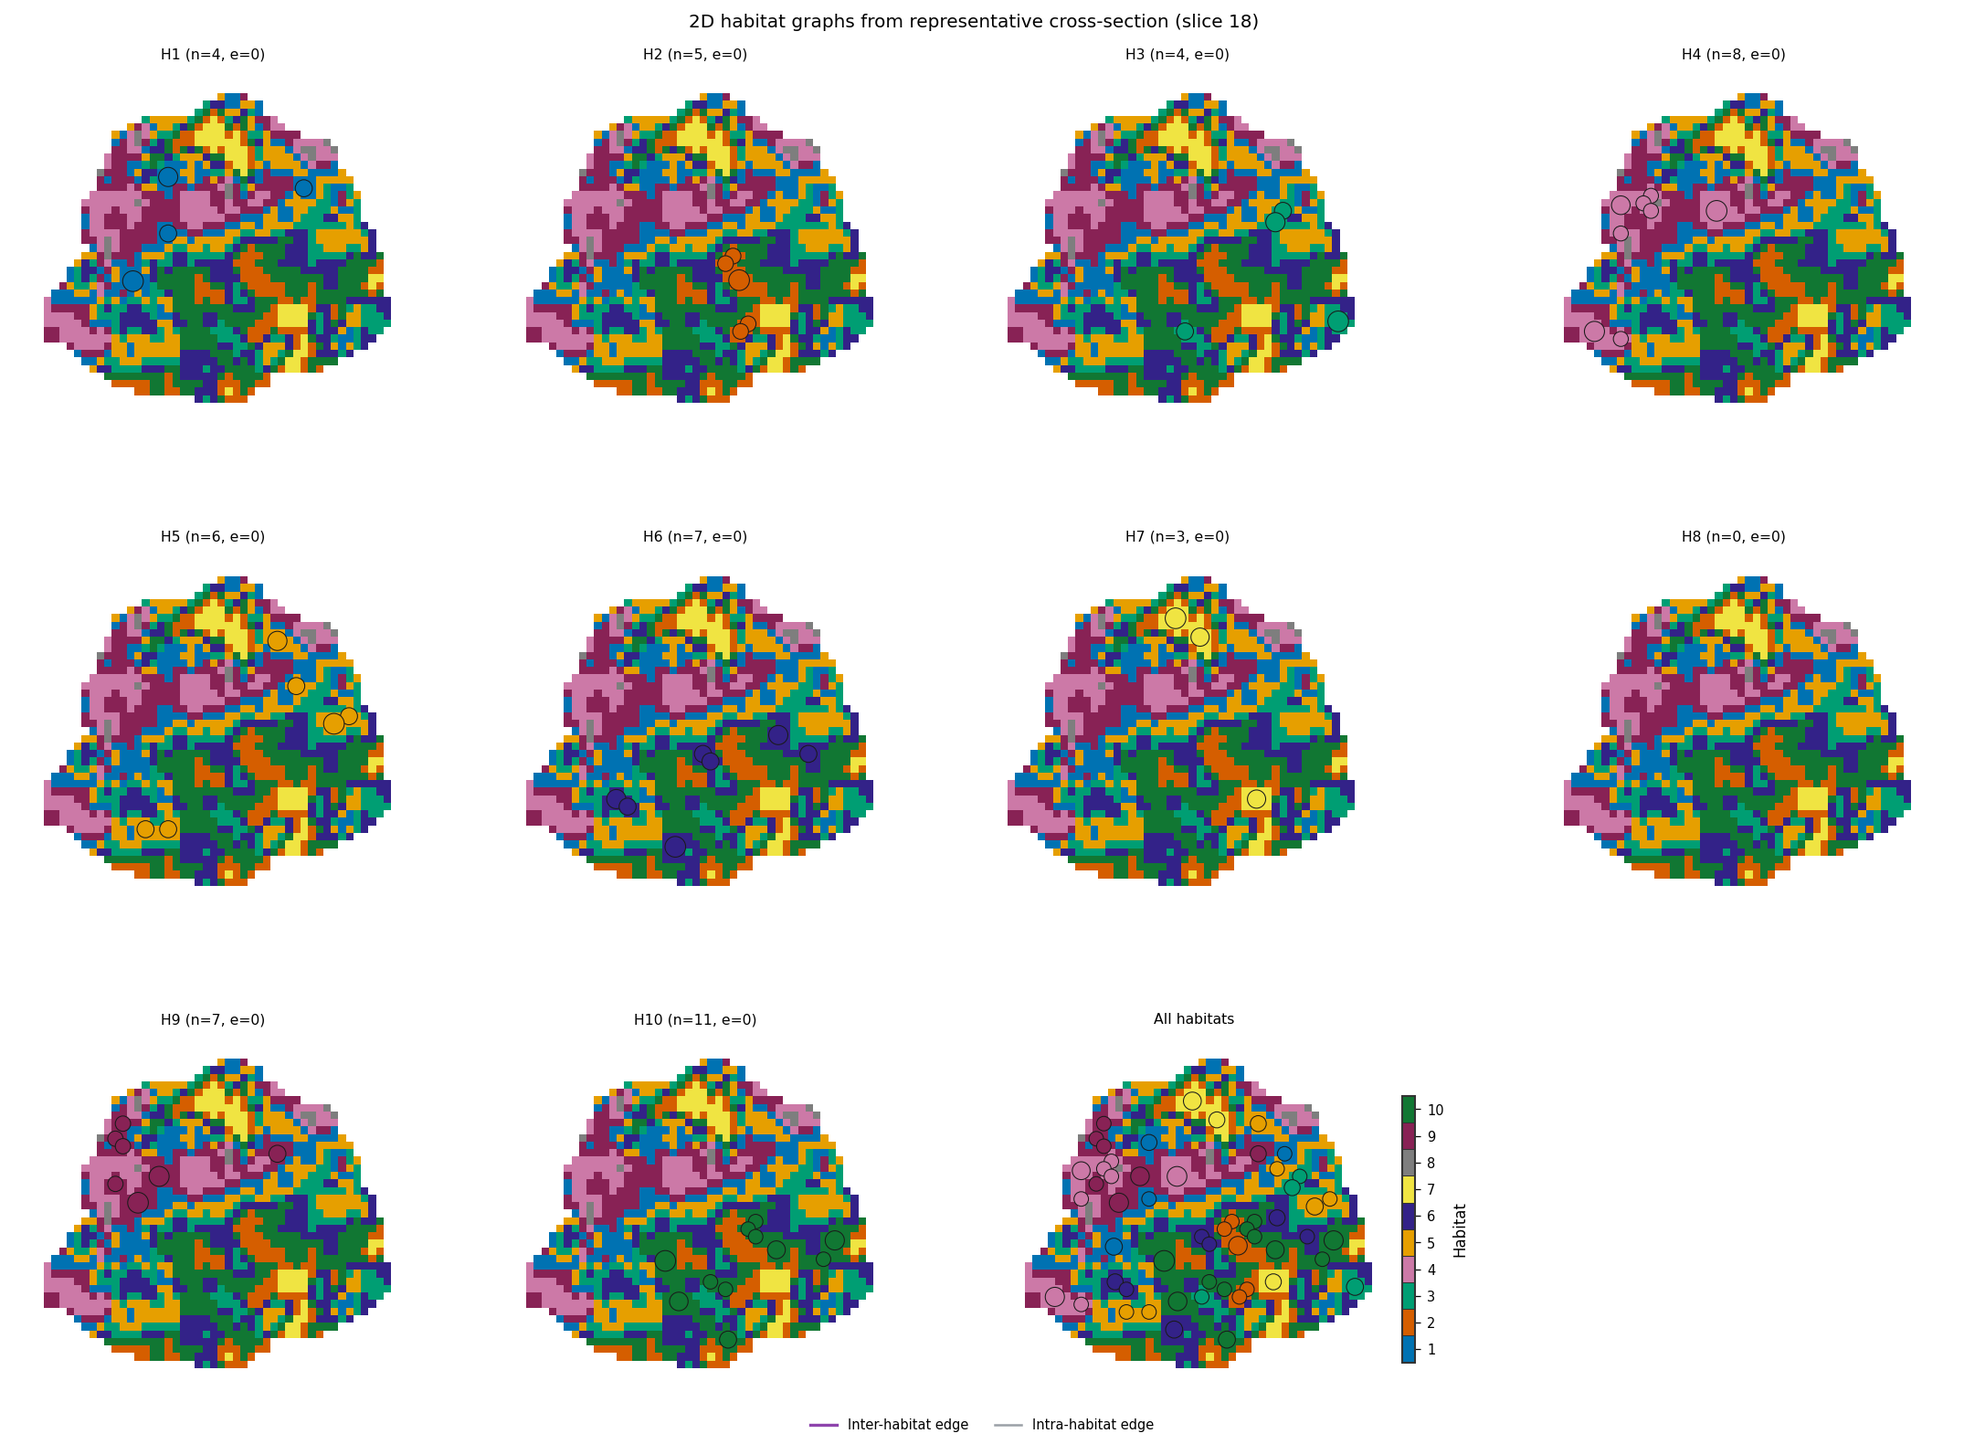
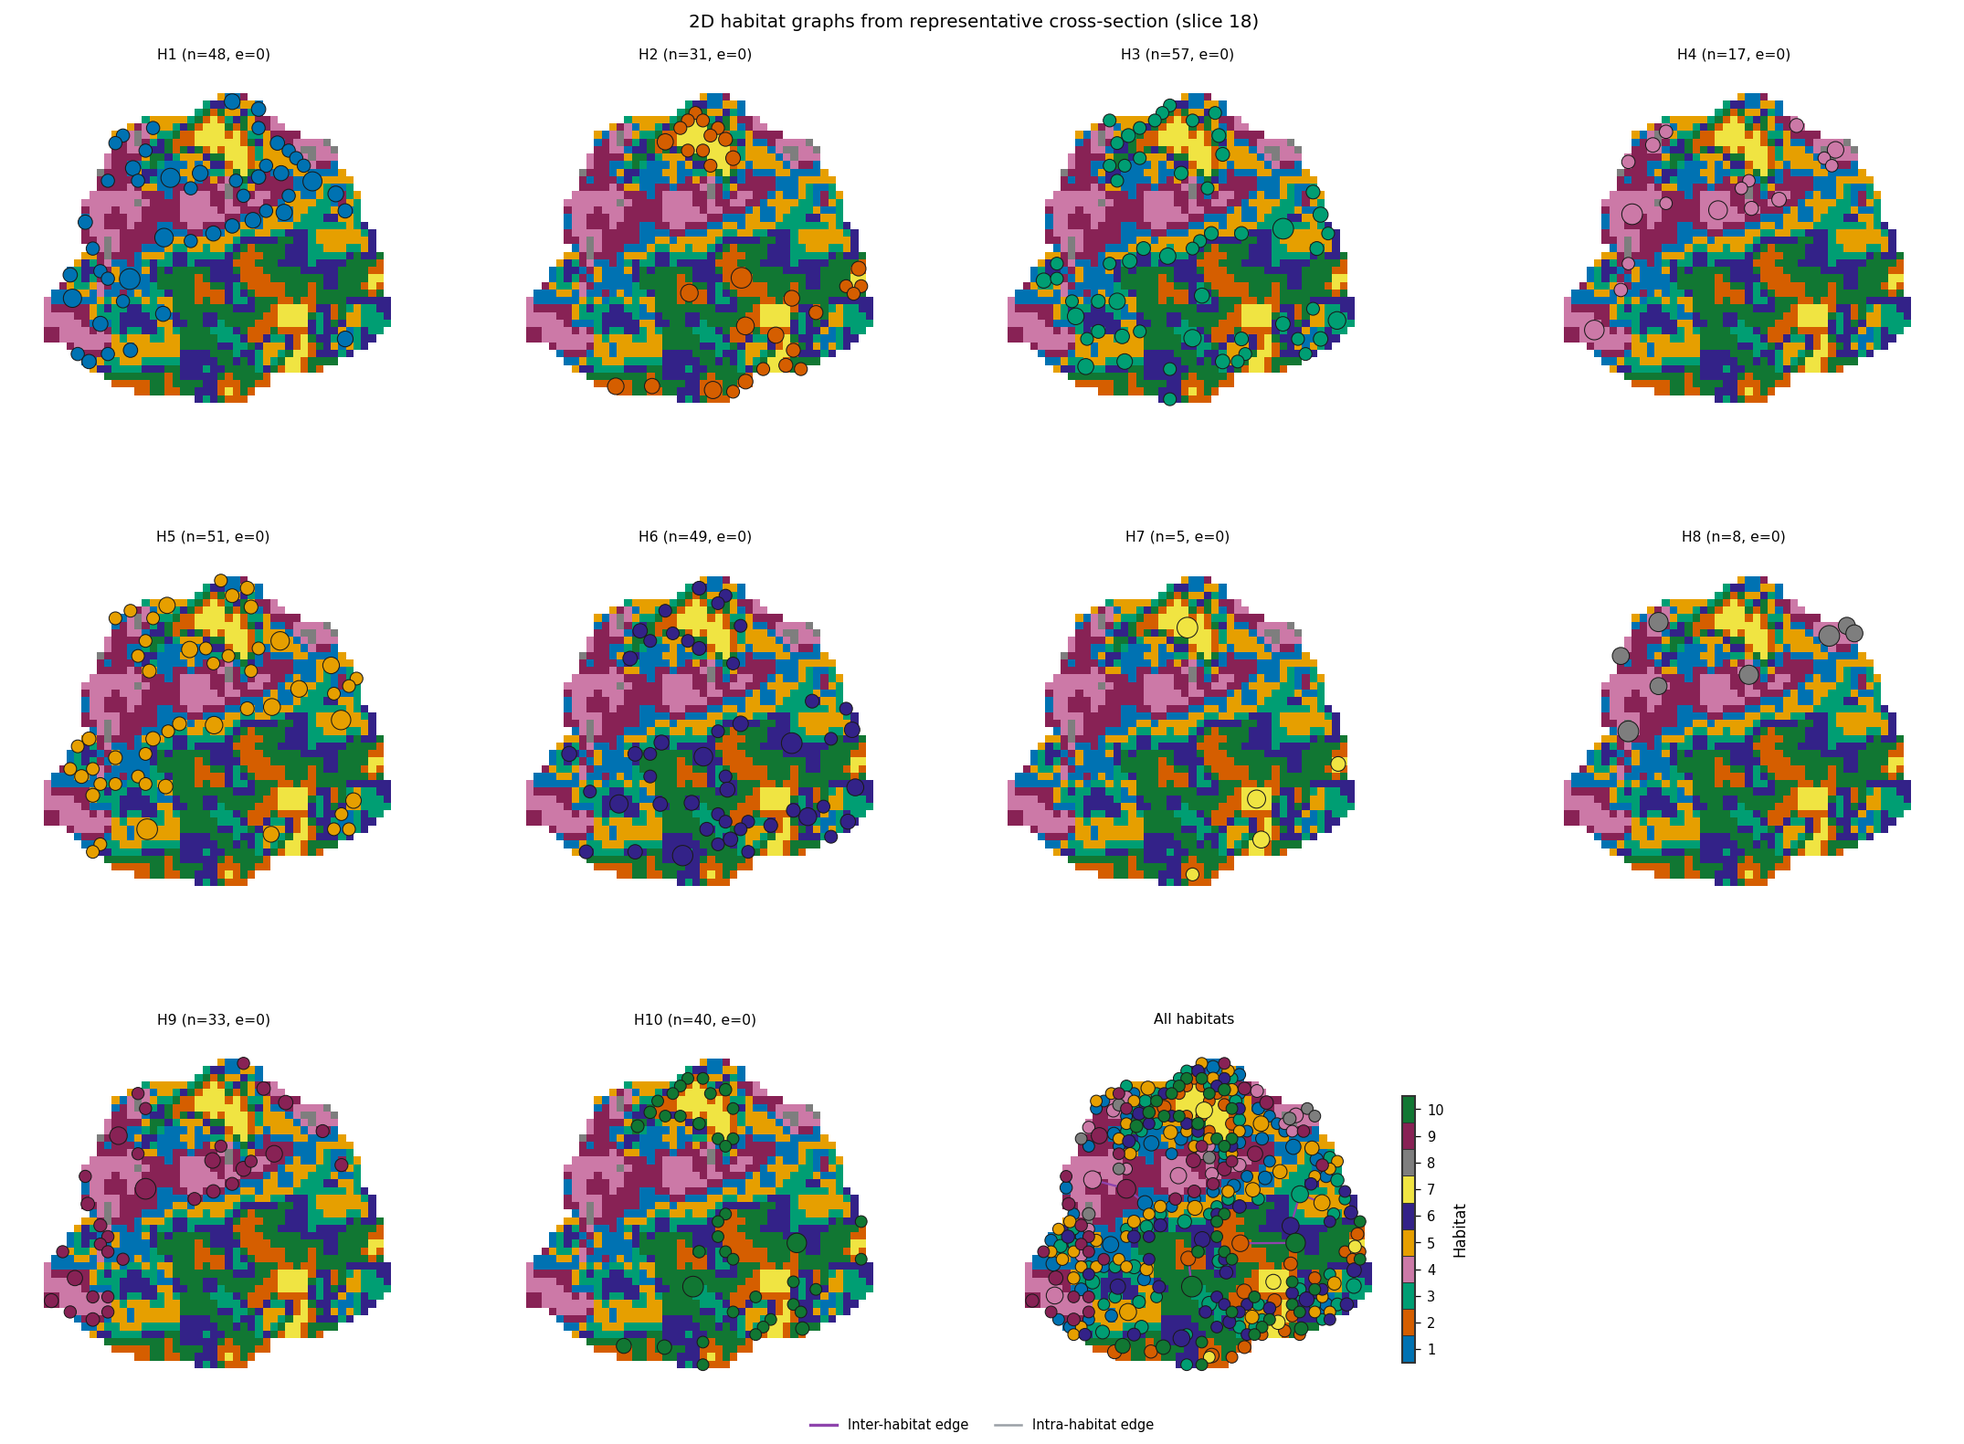
graph: default erosion off so adjacency edges stay on the habitat map

diff --git a/tests/kernels/test_habitat_graph.py b/tests/kernels/test_habitat_graph.py
@@ -118,11 +118,12 @@ def test_adjacency_min_voxels_default_requires_ten_contact_voxels() -> None:
     assert graph_ten.edges[0].contact_voxels == 10
 
     # Extractor default matches: 9 contacts → no pair edge; 10 → one edge.
+    # Default erosion is off, so contact is measured on the labels as drawn.
     options = HabitatGraphFeatureOptions(
-        erosion_radius=0,
         subdivide_region_voxels=0,
         include_extended_metrics=False,
     )
+    assert options.erosion_radius == 0
     assert options.edge_method == "adjacency"
     assert options.adjacency_min_voxels == 10
     feats_nine = extract_graph_features(labels_nine, options=options)
@@ -430,11 +431,11 @@ def test_subdivision_splits_large_region_into_multiple_nodes() -> None:
 
 
 @pytest.mark.unit
-def test_default_options_enable_erosion_and_subdivision() -> None:
-    """Default kernel options should erode and subdivide, per the config schema."""
+def test_default_options_disable_erosion_and_enable_subdivision() -> None:
+    """Default kernel options leave labels as drawn and still subdivide."""
     options = HabitatGraphFeatureOptions()
 
-    assert options.erosion_radius == 1
+    assert options.erosion_radius == 0
     assert options.subdivide_region_voxels == 1000
     assert options.block_size == 5
     assert options.distance_threshold == 5.0
@@ -625,6 +626,31 @@ def test_face_vs_full_connectivity_merges_diagonal_touch() -> None:
     assert len(face.nodes_by_habitat[1]) == 2
     assert len(full.nodes_by_habitat[1]) == 1
     assert full.nodes_by_habitat[1][0].voxel_count == 2
+
+
+@pytest.mark.unit
+def test_default_adjacency_keeps_contact_edges_optional_erosion_separates() -> None:
+    """Defaults keep a contact>=10 inter-edge; erosion=1 can still separate."""
+    # Two 5x10 blocks share a 10-voxel face. Thick enough to survive one
+    # erosion iteration, but erosion peels the shared boundary so they no
+    # longer touch.
+    label_array: np.ndarray = np.zeros((10, 10), dtype=np.int32)
+    label_array[0:5, :] = 1
+    label_array[5:10, :] = 2
+
+    default_options = HabitatGraphFeatureOptions()
+    assert default_options.erosion_radius == 0
+    assert default_options.edge_method == "adjacency"
+    assert default_options.adjacency_min_voxels == 10
+
+    default_feats = extract_graph_features(label_array, options=default_options)
+    eroded_feats = extract_graph_features(
+        label_array,
+        options=HabitatGraphFeatureOptions(erosion_radius=1),
+    )
+
+    assert default_feats["pair_h1_h2_n_edges"] >= 1.0
+    assert eroded_feats["pair_h1_h2_n_edges"] == 0.0
 
 
 @pytest.mark.unit

diff --git a/habit/domain/habitat_features/graph.py b/habit/domain/habitat_features/graph.py
@@ -65,9 +65,10 @@ class GraphHabitatFeaturesParams(BaseModel):
     min_region_voxels: int = Field(default=1, ge=1)
     #: Connected-component neighborhood rule.
     connectivity: Literal["face", "full"] = "face"
-    #: Binary erosion iterations applied before component labeling to remove
-    #: boundary noise. Set 0 to disable erosion.
-    erosion_radius: int = Field(default=1, ge=0)
+    #: Binary erosion iterations applied before component labeling. Default
+    #: ``0`` (off): adjacency and contact are measured on the habitat labels
+    #: as drawn. Pass a positive value to shrink each habitat before edges.
+    erosion_radius: int = Field(default=0, ge=0)
     #: Split connected components larger than this voxel count into grid blocks
     #: so large habitats do not collapse into a single node. Set 0 to disable.
     subdivide_region_voxels: int = Field(default=1000, ge=0)
@@ -94,10 +95,13 @@ class GraphHabitatFeatures:
     Graph-topology features of one subject's habitat map.
 
     Each connected habitat region (optionally eroded and subdivided into grid
-    blocks) becomes a graph node. By default (``edge_method='adjacency'``) an
-    edge exists when two regions are adjacent and the number of contact
-    (shared-boundary) voxels is at least ``adjacency_min_voxels`` (default
-    ``10``). The alternative ``centroid_distance`` method connects centroids
+    blocks) becomes a graph node. By default there is no morphological
+    erosion (``erosion_radius=0``): adjacency is measured on the habitat
+    labels as drawn. With ``edge_method='adjacency'`` an edge exists when
+    two regions are adjacent and the number of contact (shared-boundary)
+    voxels is at least ``adjacency_min_voxels`` (default ``10``). Pass a
+    positive ``erosion_radius`` to shrink habitats before edges. The
+    alternative ``centroid_distance`` method connects centroids
     within ``distance_threshold``. NetworkX-derived topology
     metrics are reported per habitat (``single_h*`` columns) and per habitat
     pair (``pair_h*_h*`` columns), covering degree/edge counts, density,
@@ -127,7 +131,7 @@ class GraphHabitatFeatures:
         ] = "none",
         min_region_voxels: int = 1,
         connectivity: Literal["face", "full"] = "face",
-        erosion_radius: int = 1,
+        erosion_radius: int = 0,
         subdivide_region_voxels: int = 1000,
         block_size: int = 5,
         block_min_coverage: float = 0.5,

diff --git a/habit/kernels/habitat_graph/features.py b/habit/kernels/habitat_graph/features.py
@@ -58,9 +58,12 @@ class HabitatGraphFeatureOptions:
     """Runtime options for graph-based habitat feature extraction.
 
     Default edge rule: ``edge_method='adjacency'`` with
-    ``adjacency_connectivity='face'`` and ``adjacency_min_voxels=10``. An
-    edge exists when two regions share a boundary and the contact voxel
-    count is at least 10.
+    ``adjacency_connectivity='face'`` and ``adjacency_min_voxels=10``.
+    Adjacency and the contact-voxel count are measured on the habitat
+    labels as drawn (``erosion_radius=0``). An edge exists when two
+    regions share a boundary and the contact voxel count is at least 10.
+    Pass a positive ``erosion_radius`` to shrink each habitat before
+    labeling and edge construction.
     """
 
     include_single_habitat_graph: bool = True
@@ -75,9 +78,10 @@ class HabitatGraphFeatureOptions:
     edge_weight: EdgeWeightMode = "none"
     min_region_voxels: int = 1
     connectivity: str = "face"
-    # Default erosion (1 iteration) removes a one-voxel boundary shell to
-    # suppress segmentation edge noise before connected-component labeling.
-    erosion_radius: int = 1
+    # Default is off: adjacency / contact are measured on the habitat labels
+    # as drawn. Pass a positive value to shrink each habitat (binary erosion
+    # iterations) before connected-component labeling and edge construction.
+    erosion_radius: int = 0
     # Subdivision is on by default: contiguous habitats would otherwise collapse
     # into a single graph node and erase internal spatial structure. Components
     # larger than ``subdivide_region_voxels`` are split into ``block_size`` grid
@@ -240,8 +244,10 @@ def extract_graph_features(
     Extract subject-level graph features from a habitat label map.
 
     Default ``options`` use ``edge_method='adjacency'`` with
-    ``adjacency_min_voxels=10``: an edge exists when two regions are
-    adjacent and the contact (shared-boundary) voxel count is >= 10.
+    ``adjacency_min_voxels=10`` and ``erosion_radius=0``: an edge exists
+    when two regions are adjacent on the habitat labels as drawn and the
+    contact (shared-boundary) voxel count is >= 10. Pass
+    ``erosion_radius>=1`` to shrink habitats before edges.
 
     Args:
         label_array: Already segmented habitat map. Label 0 is treated as

diff --git a/tests/domain/test_habitat_graph_features.py b/tests/domain/test_habitat_graph_features.py
@@ -101,7 +101,7 @@ def test_graph_spec_records_all_options() -> None:
     assert extractor.spec.name == "graph"
     assert extractor.spec.params["distance_threshold"] == 8.0
     assert extractor.spec.params["edge_method"] == "adjacency"
-    assert extractor.spec.params["erosion_radius"] == 1
+    assert extractor.spec.params["erosion_radius"] == 0
 
 
 @pytest.mark.unit
@@ -120,7 +120,7 @@ def test_graph_params_model_defaults_match_kernel() -> None:
     """The pydantic params model mirrors the kernel option defaults."""
     params = GraphHabitatFeaturesParams()
     kernel = HabitatGraphFeatureOptions()
-    assert params.erosion_radius == kernel.erosion_radius == 1
+    assert params.erosion_radius == kernel.erosion_radius == 0
     assert params.subdivide_region_voxels == kernel.subdivide_region_voxels == 1000
     assert params.block_size == kernel.block_size == 5
     assert params.distance_threshold == kernel.distance_threshold == 5.0

diff --git a/habit/schemas/workflows/habitat.py b/habit/schemas/workflows/habitat.py
@@ -709,11 +709,13 @@ class GraphFeatureBlock(BaseModel):
         "face", description="Connected-component neighborhood rule."
     )
     erosion_radius: int = Field(
-        1,
+        0,
         ge=0,
         description=(
-            "Binary erosion iterations applied before component labeling to "
-            "remove boundary noise. Set 0 to disable erosion."
+            "Binary erosion iterations applied before component labeling. "
+            "Default 0 (off): adjacency and contact are measured on the "
+            "habitat labels as drawn. Set a positive value to shrink each "
+            "habitat before edges."
         ),
     )
     subdivide_region_voxels: int = Field(

diff --git a/tests/recipes/test_features_recipes.py b/tests/recipes/test_features_recipes.py
@@ -374,8 +374,8 @@ def test_domain_extract_graph_writes_visualizations(tmp_path: Path) -> None:
 
     config_dict = _synthetic_extract_dataset(tmp_path)
     config_dict["graph"] = {
-        # The 2x2x2 synthetic regions would not survive the default erosion;
-        # disabling it keeps graph nodes (and therefore 3D renders) non-empty.
+        # Tiny 2x2x2 synthetic regions: keep erosion off explicitly (also the
+        # public default) so graph nodes and 3D renders stay non-empty.
         "erosion_radius": 0,
         "visualize": True,
         "visualization_format": "png",

diff --git a/docs/source/reference/features/graph.rst b/docs/source/reference/features/graph.rst
@@ -63,9 +63,10 @@ For each habitat :math:`k\in\mathcal{H}`:
 2. If ``erosion_radius`` :math:`r\ge 1`, replace :math:`M_k` by
    :math:`r` iterations of binary erosion with structuring element
    :math:`S` and ``border_value=0``. Default in
-   :class:`~habit.kernels.HabitatGraphFeatureOptions` is :math:`r=1`
-   (one-voxel shell removed to suppress segmentation-edge noise).
-   :math:`r=0` disables erosion.
+   :class:`~habit.kernels.HabitatGraphFeatureOptions` is :math:`r=0`
+   (off): adjacency and contact are measured on the habitat labels as
+   drawn. Pass a positive :math:`r` to shrink each habitat before
+   labeling and edges.
 3. Label connected components of the (possibly eroded) mask with
    ``scipy.ndimage.label`` and structure :math:`S`:
 
@@ -157,7 +158,9 @@ pairs whose ids are :math:`(u,v)`. An edge exists iff
    N_{\mathrm{adj}}(u,v) \ge \texttt{adjacency\_min\_voxels}
 
 (default ``10``). An edge exists when two regions are adjacent and the
-contact (shared-boundary) voxel count is >= 10. ``contact_voxels``
+contact (shared-boundary) voxel count is >= 10, measured on the
+(possibly eroded) masks. Default ``erosion_radius=0`` means the habitat
+labels as drawn. ``contact_voxels``
 :math:`=N_{\mathrm{adj}}`. Distance on
 the edge is still the centroid Euclidean distance (used by distance
 summaries). Weight is ``1`` unless ``edge_weight='contact_voxels'``, in
@@ -447,7 +450,7 @@ below match the kernel dataclass.
    * - ``connectivity``
      - Connected-component rule: ``face`` or ``full`` (default ``face``)
    * - ``erosion_radius``
-     - Binary erosion iterations before labeling (default ``1``; ``0`` disables)
+     - Binary erosion iterations before labeling (default ``0`` / off; set ``>= 1`` to shrink habitats before edges)
    * - ``subdivide_region_voxels``
      - Split components larger than this into grid blocks (default ``1000``; ``0`` disables)
    * - ``block_size``

diff --git a/docs/source/configuration/feature_extraction.rst b/docs/source/configuration/feature_extraction.rst
@@ -129,10 +129,10 @@ This section documents **feature extraction** configuration. CLI: ``habit extrac
   - ``include_single_habitat_graph`` (``true``) / ``include_pairwise_habitat_graph`` (``true``)
   - ``edge_method``: ``adjacency`` (default) or ``centroid_distance``
   - ``distance_threshold`` (``5.0``, pixel units) — used by ``centroid_distance``
-  - ``adjacency_connectivity`` (``face``) / ``adjacency_min_voxels`` (``10``) — used by ``adjacency``. An edge exists when two regions are adjacent and the contact voxel count is >= 10.
+  - ``adjacency_connectivity`` (``face``) / ``adjacency_min_voxels`` (``10``) — used by ``adjacency``. An edge exists when two regions are adjacent and the contact voxel count is >= 10, measured on the habitat labels as drawn (default ``erosion_radius`` is ``0``).
   - ``edge_weight``: ``none`` | ``distance`` | ``inverse_distance`` | ``contact_voxels``
   - ``min_region_voxels`` (``1``), ``connectivity`` (``face`` | ``full``)
-  - ``erosion_radius`` (``1``; ``0`` disables), ``subdivide_region_voxels`` (``1000``; ``0`` disables)
+  - ``erosion_radius`` (``0`` / off; set ``>= 1`` to shrink habitats before edges), ``subdivide_region_voxels`` (``1000``; ``0`` disables)
   - ``block_size`` (``5``), ``block_min_coverage`` (``0.5``)
   - ``pairwise_include_intra_edges`` (``true``)
   - ``include_extended_metrics`` (``true``), ``extended_min_nodes`` (``10``)

diff --git a/docs/source/how_to/graph_features.rst b/docs/source/how_to/graph_features.rst
@@ -35,7 +35,7 @@ Minimal YAML fragment::
      edge_method: adjacency
      adjacency_connectivity: face
      adjacency_min_voxels: 10
-     erosion_radius: 1
+     erosion_radius: 0
      subdivide_region_voxels: 1000
      include_single_habitat_graph: true
      include_pairwise_habitat_graph: true
@@ -49,10 +49,13 @@ Outputs:
   ``out_dir/visualizations/graph/`` (2D needs ``[viz]``; 3D also needs
   ``[view]``)
 
-By default an **edge exists when two regions are adjacent** (face-sharing
-voxels; ``adjacency_connectivity: face``) **and** the contact
-(shared-boundary) voxel count is **>= 10** (``adjacency_min_voxels: 10``).
-Use ``edge_method: centroid_distance`` plus ``distance_threshold`` if you
+By default there is **no morphological erosion** (``erosion_radius: 0``).
+An **edge exists when two regions are adjacent** (face-sharing voxels;
+``adjacency_connectivity: face``) **and** the contact (shared-boundary)
+voxel count is **>= 10** (``adjacency_min_voxels: 10``), measured on the
+habitat labels as drawn. Set ``erosion_radius`` to a positive integer if
+you want to shrink each habitat before building edges. Use
+``edge_method: centroid_distance`` plus ``distance_threshold`` if you
 want the older centroid-proximity rule instead.
 
 Parameter reference: :doc:`../configuration/feature_extraction`.

diff --git a/docs/source/examples/graph_features.rst b/docs/source/examples/graph_features.rst
@@ -7,9 +7,11 @@ Graph features from habitat maps
 End-to-end: one subject → :func:`~habit.one_step_habitat` with a **fixed**
 ``n_habitats=10`` (not ``"auto"``) →
 :func:`~habit.extract_graph_features` → overlay +
-:func:`~habit.viz.plot_habitat_graph_network_2d`. By default an edge exists
-when two regions are **adjacent** and the contact (shared-boundary) voxel
-count is **>= 10**. Graph topology is a habitat-map feature family (same
+:func:`~habit.viz.plot_habitat_graph_network_2d`. By default there is **no
+erosion**; an edge exists when two regions are **adjacent** and the
+contact (shared-boundary) voxel count is **>= 10**, measured on the
+habitat labels as drawn. Optional ``erosion_radius`` shrinks habitats
+before edges. Graph topology is a habitat-map feature family (same
 tier as ``volume`` / ``msi``); columns under
 :doc:`../reference/features/index`.
 

diff --git a/CHANGELOG.md b/CHANGELOG.md
@@ -15,6 +15,11 @@ The format is based on [Keep a Changelog](https://keepachangelog.com/en/1.1.0/).
   and adjacency edges used ``adjacency_min_voxels=1``. An edge now exists
   when two regions are adjacent and the shared-boundary voxel count is
   >= 10. Pass ``edge_method='centroid_distance'`` to keep the old rule.
+- Graph topology default ``erosion_radius`` is now ``0`` (off). Adjacency
+  and the contact >= 10 rule are measured on the habitat labels as drawn.
+  Previously the default was one binary-erosion iteration before labeling,
+  which could drop thin contacts. Pass ``erosion_radius=1`` (or higher) to
+  shrink habitats before edges.
 - Docs: quickstart reminds Baidu Netdisk ML pack download / extract path
   immediately before ``habit model``.
 - Docs: Python API quickstart uses the same demo YAML as the CLI via

diff --git a/docs/source/api/kernels.rst b/docs/source/api/kernels.rst
@@ -58,7 +58,7 @@ Region graphs + NetworkX metrics (same definitions as the built-in
        edge_method="adjacency",
        adjacency_connectivity="face",
        adjacency_min_voxels=10,
-       erosion_radius=1,
+       erosion_radius=0,
        subdivide_region_voxels=1000,
    )
    graph_feats = extract_graph_features(
